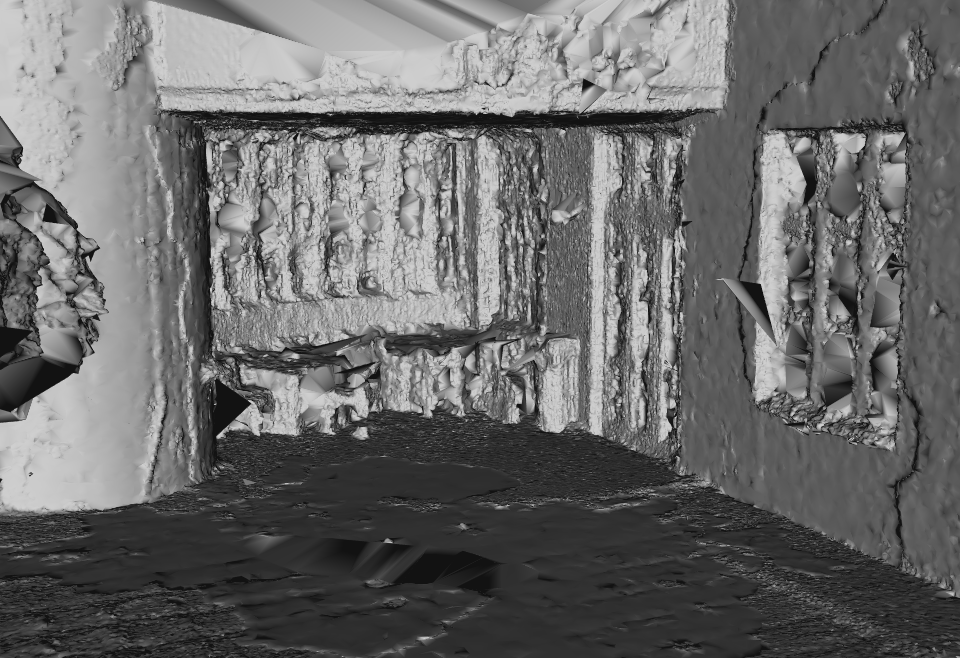
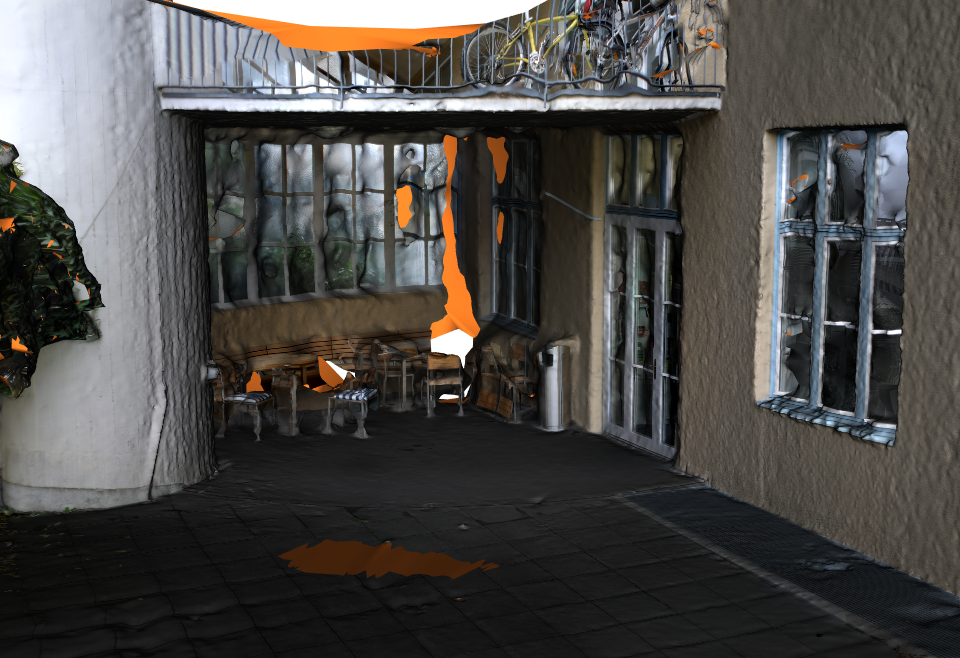
added readme

diff --git a/visualize.py b/visualize.py
@@ -51,7 +51,8 @@ class Visualizer:
         ## MVS
         plt = vedo.Plotter(axes=0)
 
-        mesh = vedo.Mesh(os.path.join(self.path,self.scene,"vu.ply"),c=[180,180,180])
+        mesh = vedo.Mesh(os.path.join(self.path,self.scene,"openMVS","terrace_cl_05_textured.ply"),c=[180,180,180])
+        mesh.texture(os.path.join(self.path,self.scene,"openMVS","terrace_cl_05_textured.png"))
         mesh=mesh.computeNormals().phong().lighting("default")
         plt+=mesh
 
@@ -180,5 +181,5 @@ if __name__ == "__main__":
     vc=Visualizer()
 
     vc.plotMeshes()
-    vc.plotMVS()
+    # vc.plotMVS()
     # vc.plotLiDAR()

diff --git a/README.md b/README.md
@@ -1,0 +1,27 @@
+# ETH3D Dataset Processing with Python
+
+## Visualization
+
+
+```python
+vc=Visualizer()
+vc.plotMVS()
+vc.plotLiDAR()
+vc.plotMeshes()
+```
+<p float="left">
+  <img style="width:300px;" src="./out/terrace_lidar.png">
+  <img style="width:300px;" src="./out/terrace_mvs.png">
+</p>
+
+
+<p float="left">
+  <img style="width:300px;" src="./out/terrace_lidar_sensor.png">
+  <img style="width:300px;" src="./out/terrace_mvs_sensor.png">
+</p>
+
+
+<p float="left">
+  <img style="width:300px;" src="./out/terrace_lidar_mesh.png">
+  <img style="width:300px;" src="./out/terrace_mvs_mesh.png">
+</p>
